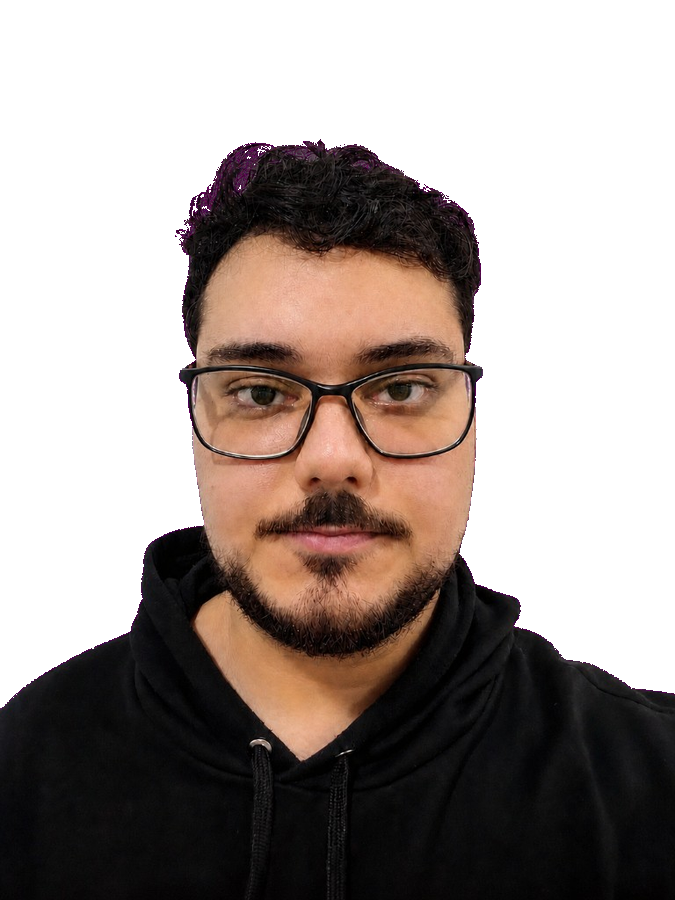
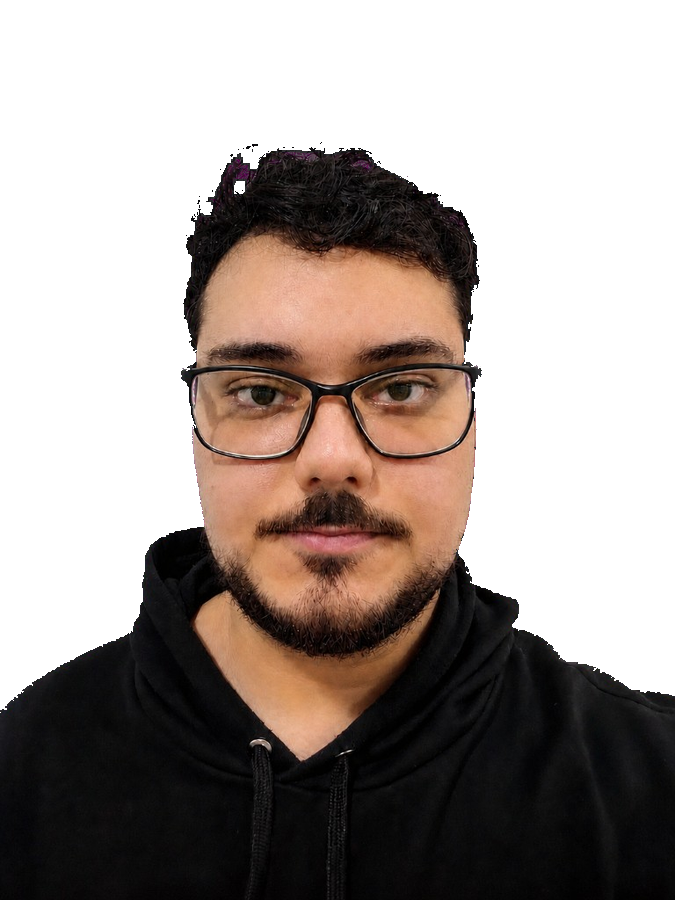
fix: stabilize hero portrait toggle and clear light fringe
Stack theme portraits with opacity and remove wine spill from the light PNG.

diff --git a/apps/web/src/app/page.module.css b/apps/web/src/app/page.module.css
@@ -77,6 +77,7 @@
 }
 
 .portrait {
+  position: relative;
   justify-self: end;
   width: 100%;
   max-width: 15.5rem;
@@ -88,23 +89,30 @@
 }
 
 .portraitImage {
+  position: absolute;
+  inset: 0;
   display: block;
   width: 100%;
   height: 100%;
   object-fit: cover;
   object-position: center 18%;
+  pointer-events: none;
+}
+
+.portraitLight {
+  opacity: 1;
 }
 
 .portraitDark {
-  display: none;
+  opacity: 0;
 }
 
 :global([data-theme="dark"]) .portraitLight {
-  display: none;
+  opacity: 0;
 }
 
 :global([data-theme="dark"]) .portraitDark {
-  display: block;
+  opacity: 1;
 }
 
 .section {

diff --git a/apps/web/src/app/page.tsx b/apps/web/src/app/page.tsx
@@ -21,10 +21,14 @@ export default function HomePage() {
             <Link href="/casos">Ver casos</Link>
           </div>
         </div>
-        <div className={styles.portrait}>
+        <div
+          className={styles.portrait}
+          role="img"
+          aria-label="Retrato de João Victor Veidz"
+        >
           <Image
             src="/profile-hero.png"
-            alt="Retrato de João Victor Veidz"
+            alt=""
             width={675}
             height={900}
             className={`${styles.portraitImage} ${styles.portraitLight}`}
